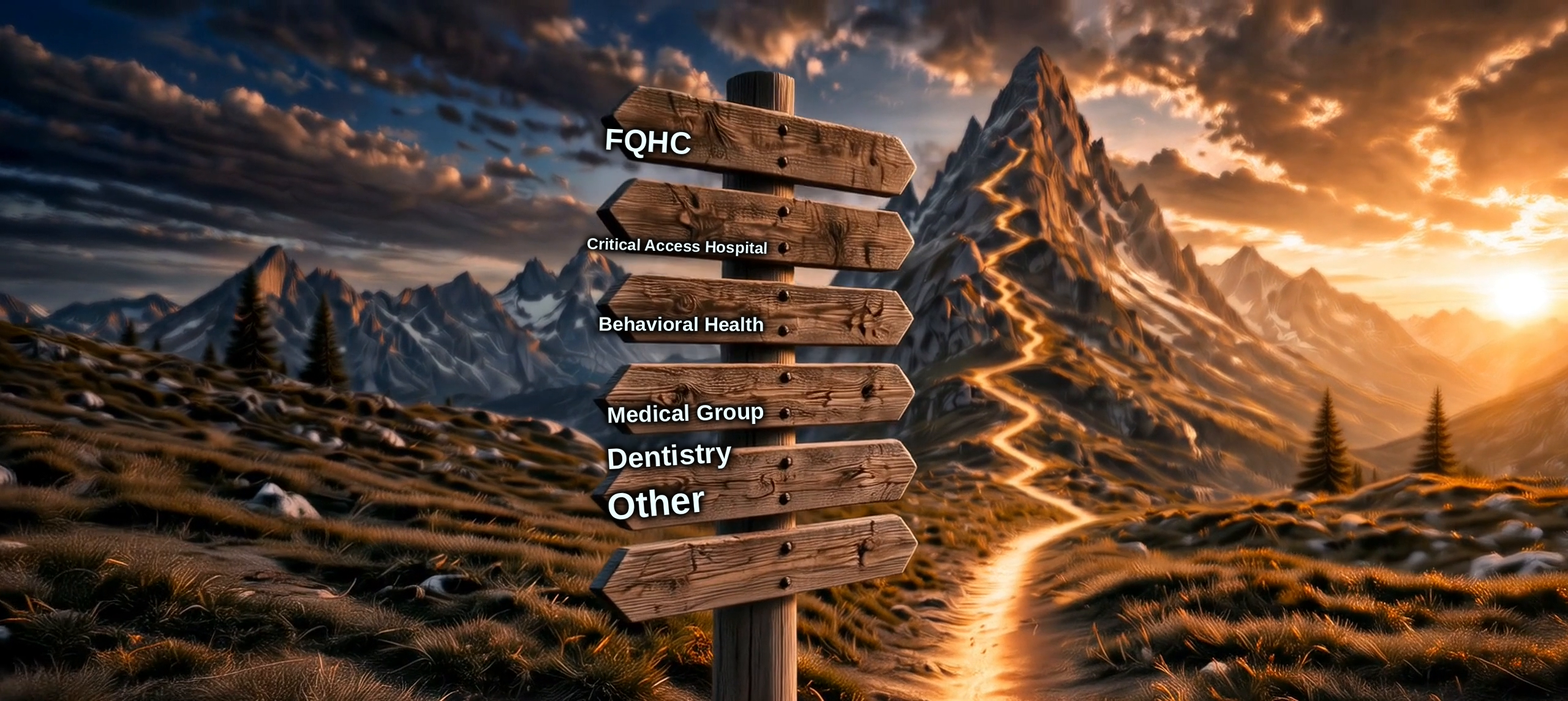
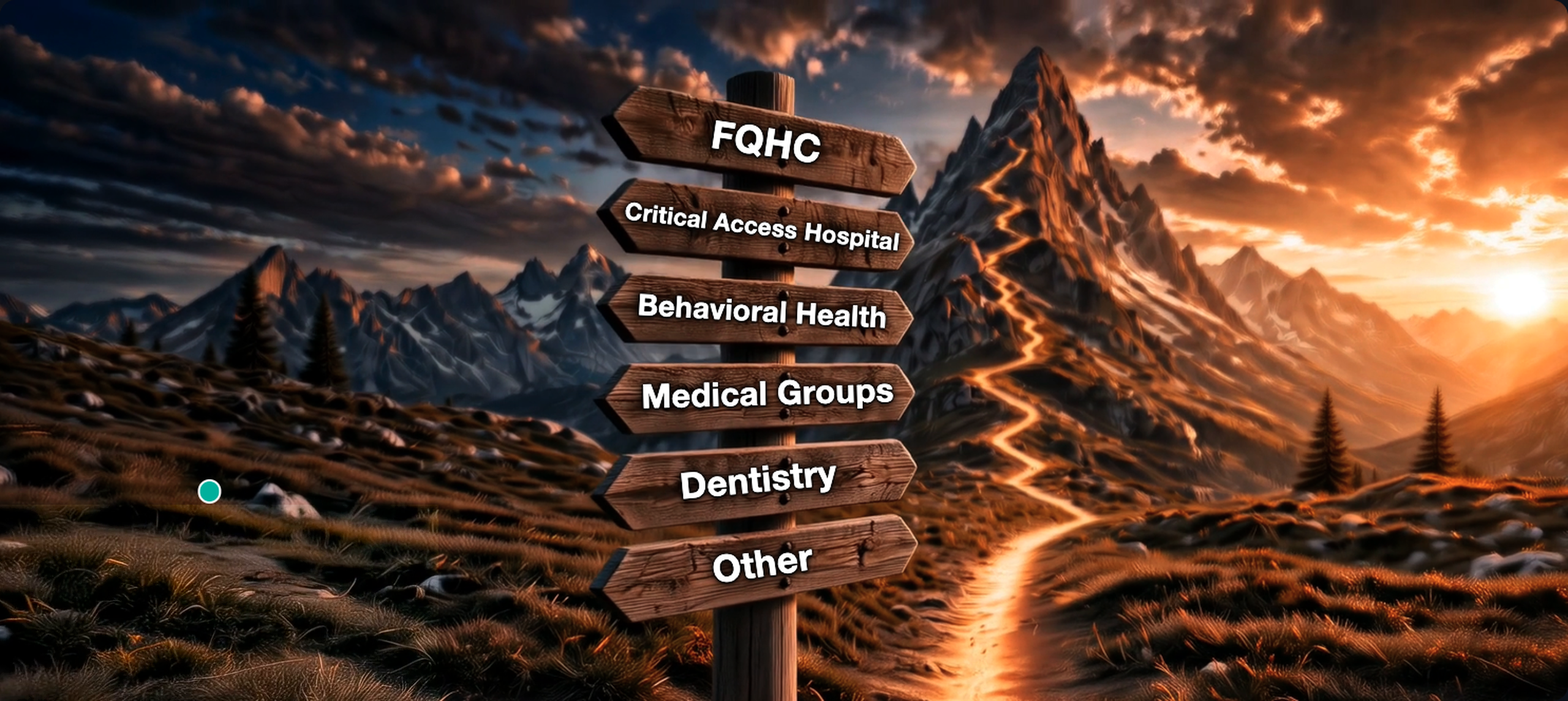
Trailhead specialty + facility: Mike-placed white type with black glow (preview 1933).

diff --git a/index.html b/index.html
@@ -6,15 +6,15 @@
 <meta name="color-scheme" content="dark light" />
 <meta name="description" content="Adaptive Medical Partners — 87% retention at 3 years, 1.7 avg interviews per placement, 700+ rural/FQHC/CAH partners, 16 years since 2010. Explore the Range with AMP." />
 <title>AMP · Explore the Range · Adaptive Medical Partners</title>
-<link rel="stylesheet" href="css/site.css?v=1932" />
-<link rel="preload" as="image" href="assets/hero-mountain-wide.png?v=1932" />
+<link rel="stylesheet" href="css/site.css?v=1933" />
+<link rel="preload" as="image" href="assets/hero-mountain-wide.png?v=1933" />
 </head>
 <body>
 <div id="approach-video-hold" class="approach-video-hold" aria-hidden="true" hidden></div>
 <nav class="site-nav is-home" id="site-nav" aria-label="Primary">
   <button type="button" class="brand brand-lockup brand-glow-white" data-go="home" aria-label="AMP Adaptive Medical Partners home">
-    <img class="brand-lockup-img is-white" src="assets/amp-lockup-nav.png?v=1932" alt="Adaptive Medical Partners" width="304" height="68" />
-    <img class="brand-lockup-img is-black" src="assets/amp-lockup-nav-black.png?v=1932" alt="" width="304" height="68" />
+    <img class="brand-lockup-img is-white" src="assets/amp-lockup-nav.png?v=1933" alt="Adaptive Medical Partners" width="304" height="68" />
+    <img class="brand-lockup-img is-black" src="assets/amp-lockup-nav-black.png?v=1933" alt="" width="304" height="68" />
   </button>
   <div class="nav-links">
     <button type="button" class="nav-link hide-sm" data-go="physician">Physicians</button>
@@ -34,8 +34,8 @@
 
 <!-- ========== HOME: zoomed-OUT wide mountain + clean copy (no auto zoom-in) ========== -->
 <section class="view on home-stage settled" data-route="home" id="home-stage">
-  <img class="home-poster" src="assets/hero-mountain-wide.png?v=1932" alt="" />
-  <video id="home-video" class="home-video" src="assets/imagine-home.mp4?v=1932" poster="assets/hero-mountain-wide.png?v=1932" playsinline muted preload="metadata"></video>
+  <img class="home-poster" src="assets/hero-mountain-wide.png?v=1933" alt="" />
+  <video id="home-video" class="home-video" src="assets/imagine-home.mp4?v=1933" poster="assets/hero-mountain-wide.png?v=1933" playsinline muted preload="metadata"></video>
   <div class="home-mist" aria-hidden="true"></div>
   <button type="button" class="home-skip" data-play-approach hidden>Watch the approach</button>
   <div class="home-overlay">
@@ -85,7 +85,7 @@
 <!-- ========== PHYSICIAN FUNNEL ========== -->
 <section class="view page funnel trailhead" data-route="physician">
   <div class="shot" aria-hidden="true">
-    <img class="still" src="assets/trailhead-specialty-baked.png?v=1932" alt="" />
+    <img class="still" src="assets/trailhead-specialty-baked.png?v=1933" alt="" />
   </div>
   <div class="trailhead-stage">
     <div class="trailhead-top">
@@ -299,7 +299,7 @@
 <!-- ========== CLIENT FUNNEL (same trail transition family) ========== -->
 <section class="view page funnel trailhead" data-route="client">
   <div class="shot" aria-hidden="true">
-    <img class="still" src="assets/trailhead-facility-baked.png?v=1932" alt="" />
+    <img class="still" src="assets/trailhead-facility-baked.png?v=1933" alt="" />
   </div>
   <div class="trailhead-stage">
     <div class="trailhead-top">
@@ -1378,9 +1378,9 @@
 }
 </script>
 
-<script src="js/content.js?v=1932"></script>
-<script src="js/articles.js?v=1932"></script>
-<script src="js/app.js?v=1932"></script>
+<script src="js/content.js?v=1933"></script>
+<script src="js/articles.js?v=1933"></script>
+<script src="js/app.js?v=1933"></script>
 <template id="amp-region-map-template">
 <div class="region-map-shell">
   <div class="region-map-intro">
@@ -1473,7 +1473,7 @@
               d="m 697.86007,177.23689 -3.23321,-8.24469 -2.26325,-9.05298 -2.4249,-3.23321 -2.58657,-1.77827 -1.6166,1.13163 -3.87986,1.77826 -1.93992,5.01148 -2.74823,3.71819 -1.13162,0.64664 -1.45495,-0.64664 c 0,0 -2.58656,-1.45495 -2.4249,-2.10159 0.16166,-0.64664 0.48498,-5.01147 0.48498,-5.01147 l 3.39487,-1.29329 0.8083,-3.39487 0.64664,-2.58656 2.42491,-1.61661 -0.32332,-10.02295 -1.61661,-2.26324 -1.29328,-0.80831 -0.8083,-2.10158 0.8083,-0.8083 1.6166,0.32332 0.16166,-1.61661 -2.4249,-2.26325 -1.29329,-2.58656 -2.58656,0 -4.5265,-1.45495 -5.49645,-3.39487 -2.74823,0 -0.64664,0.64665 -0.96997,-0.48499 -3.07154,-2.26324 -2.90989,1.77826 -2.90989,2.26325 0.32332,3.55653 0.96996,0.32332 2.10159,0.48498 0.48498,0.8083 -2.58657,0.80831 -2.58656,0.32332 -1.45495,1.77826 -0.32332,2.10159 0.32332,1.6166 0.32332,5.49646 -3.55653,2.10159 -0.64664,-0.16167 0,-4.20317 1.29328,-2.4249 0.64665,-2.42491 -0.80831,-0.8083 -1.93992,0.8083 -0.96997,4.20317 -2.74822,1.13162 -1.77827,1.93993 -0.16166,0.96996 0.64664,0.8083 -0.64664,2.58657 -2.26325,0.48498 0,1.13163 0.80831,2.4249 -1.13163,6.1431 -1.6166,4.04151 0.64664,4.68816 0.48498,1.13162 -0.8083,2.42491 -0.32332,0.8083 -0.32332,2.74823 3.55653,5.98143 2.90989,6.46642 1.45494,4.84982 -0.8083,4.68815 -0.96996,5.98144 -2.42491,5.17313 -0.32332,2.74823 -3.25887,3.08515 4.40861,-0.16205 21.41849,-2.26325 7.27784,-0.98706 0.0964,1.66635 6.85194,-1.21246 10.29808,-1.50313 3.8542,-0.46091 0.13805,-0.58755 0.16166,-1.45494 2.10158,-3.71819 2.00056,-1.73785 -0.22229,-5.05189 1.59699,-1.59699 1.09062,-0.34294 0.22228,-3.55653 1.53577,-3.03112 1.05079,0.60622 0.16166,0.64664 0.80831,0.16166 1.93992,-0.96996 -0.32332,-9.53797 z"
         />
         <path class="amp-state" data-state="MI"
-              d="m 581.61932,82.059006 1.82899,-2.057604 2.17192,-0.800181 5.37264,-3.886597 2.28622,-0.571559 0.45726,0.457254 -5.14402,5.14402 -3.31504,1.943289 -2.05761,0.914496 -1.60036,-1.143118 z m 86.17438,32.128184 0.64664,2.50574 3.23322,0.16166 1.29329,-1.21246 c 0,0 -0.0808,-1.45494 -0.40415,-1.61661 -0.32333,-0.16166 -1.61661,-1.8591 -1.61661,-1.8591 l -2.18242,0.24249 -1.61662,0.16166 -0.32332,1.13163 0.96997,0.48499 z m -100.3016,-2.97401 0.71628,-0.5804 2.74823,-0.80831 3.55653,-2.26324 0,-0.96997 0.64665,-0.64664 5.98143,-0.96996 2.42491,-1.93993 4.36483,-2.10158 0.16166,-1.293286 1.93993,-2.909889 1.77826,-0.808302 1.29329,-1.778265 2.26324,-2.263247 4.36484,-2.424907 4.68815,-0.484981 1.13162,1.131623 -0.32332,0.969963 -3.71819,0.969963 -1.45494,3.071549 -2.26325,0.808302 -0.48498,2.424907 -2.42491,3.23321 -0.32332,2.58657 0.8083,0.48498 0.96997,-1.13162 3.55653,-2.90989 1.29328,1.29328 2.26325,0 3.23321,0.96996 1.45494,1.13163 1.45494,3.07155 2.74823,2.74822 3.87985,-0.16166 1.45495,-0.96996 1.6166,1.29328 1.61661,0.48499 1.29328,-0.80831 1.13162,0 1.61661,-0.96996 4.04151,-3.55653 3.39487,-1.13162 6.62808,-0.32332 4.52649,-1.93993 2.58657,-1.29328 1.45495,0.16166 0,5.65811 0.48498,0.32332 2.90988,0.80831 1.93993,-0.48499 6.1431,-1.6166 1.13162,-1.13162 1.45495,0.48498 0,6.9514 3.23321,3.07155 1.29328,0.64664 1.29328,0.96996 -1.29328,0.32332 -0.8083,-0.32332 -3.71819,-0.48498 -2.10159,0.64664 -2.26325,-0.16166 -3.23321,1.45495 -1.77826,0 -5.81978,-1.29329 -5.17313,0.16166 -1.93993,2.58657 -6.9514,0.64664 -2.42491,0.8083 -1.13162,3.07155 -1.29328,1.13163 -0.48498,-0.16166 -1.45495,-1.61661 -4.52649,2.42491 -0.64664,0 -1.13163,-1.61661 -0.8083,0.16166 -1.93992,4.36484 -0.96997,4.04151 -3.18112,7.0008 -1.17676,-1.03427 -1.37174,-1.03132 -1.94078,-10.28802 -3.54448,-1.37005 -2.05258,-2.28623 -12.12036,-2.74348 -2.85527,-1.02964 -8.23042,-2.17274 -7.88999,-1.14312 -3.7193,-5.14569 z"
+              d="m 581.61933,82.059006 1.82899,-2.057604 2.17192,-0.800181 5.37264,-3.886597 2.28622,-0.571559 0.45726,0.457254 -5.14402,5.14402 -3.31504,1.943289 -2.05761,0.914496 -1.60036,-1.143118 z m 86.17438,32.128184 0.64664,2.50574 3.23322,0.16166 1.29329,-1.21246 c 0,0 -0.0808,-1.45494 -0.40415,-1.61661 -0.32333,-0.16166 -1.61661,-1.8591 -1.61661,-1.8591 l -2.18242,0.24249 -1.61662,0.16166 -0.32332,1.13163 0.96997,0.48499 z m -100.3016,-2.97401 0.71628,-0.5804 2.74823,-0.80831 3.55653,-2.26324 0,-0.96997 0.64665,-0.64664 5.98143,-0.96996 2.42491,-1.93993 4.36483,-2.10158 0.16166,-1.293286 1.93993,-2.909889 1.77826,-0.808302 1.29329,-1.778265 2.26324,-2.263247 4.36484,-2.424907 4.68815,-0.484981 1.13162,1.131623 -0.32332,0.969963 -3.71819,0.969963 -1.45494,3.071549 -2.26325,0.808302 -0.48498,2.424907 -2.42491,3.23321 -0.32332,2.58657 0.8083,0.48498 0.96997,-1.13162 3.55653,-2.90989 1.29328,1.29328 2.26325,0 3.23321,0.96996 1.45494,1.13163 1.45494,3.07155 2.74823,2.74822 3.87985,-0.16166 1.45495,-0.96996 1.6166,1.29328 1.61661,0.48499 1.29328,-0.80831 1.13162,0 1.61661,-0.96996 4.04151,-3.55653 3.39487,-1.13162 6.62808,-0.32332 4.52649,-1.93993 2.58657,-1.29328 1.45495,0.16166 0,5.65811 0.48498,0.32332 2.90988,0.80831 1.93993,-0.48499 6.1431,-1.6166 1.13162,-1.13162 1.45495,0.48498 0,6.9514 3.23321,3.07155 1.29328,0.64664 1.29328,0.96996 -1.29328,0.32332 -0.8083,-0.32332 -3.71819,-0.48498 -2.10159,0.64664 -2.26325,-0.16166 -3.23321,1.45495 -1.77826,0 -5.81978,-1.29329 -5.17313,0.16166 -1.93993,2.58657 -6.9514,0.64664 -2.42491,0.8083 -1.13162,3.07155 -1.29328,1.13163 -0.48498,-0.16166 -1.45495,-1.61661 -4.52649,2.42491 -0.64664,0 -1.13163,-1.61661 -0.8083,0.16166 -1.93992,4.36484 -0.96997,4.04151 -3.18112,7.0008 -1.17676,-1.03427 -1.37174,-1.03132 -1.94078,-10.28802 -3.54448,-1.37005 -2.05258,-2.28623 -12.12036,-2.74348 -2.85527,-1.02964 -8.23042,-2.17274 -7.88999,-1.14312 -3.7193,-5.14569 z"
         />
         <text class="state-abbr" text-anchor="middle" dominant-baseline="middle" x="664.72" y="174.90"><tspan>MI</tspan></text>
     
@@ -1563,7 +1563,7 @@
         <text class="state-abbr" text-anchor="middle" dominant-baseline="middle" x="764.50" y="321.25"><tspan>NC</tspan></text>
     
         <path class="amp-state" data-state="SC"
-              d="m 759.19328,401.25863 -1.77706,0.9695 -2.58657,-1.29329 -0.64664,-2.10159 -1.29328,-3.55653 -2.26326,-2.1016 -2.58657,-0.64664 -1.6166,-4.84981 -2.74824,-5.98145 -4.20317,-1.93994 -2.1016,-1.93992 -1.29328,-2.58657 -2.10159,-1.93994 -2.26325,-1.29328 -2.26325,-2.90989 -3.07155,-2.26324 -4.52651,-1.77828 -0.48498,-1.45494 -2.4249,-2.90989 -0.48499,-1.45496 -3.39488,-5.17313 -3.39487,0.16166 -4.04152,-2.42492 -1.29328,-1.29328 -0.32332,-1.77827 0.8083,-1.93992 2.26325,-0.96998 -0.51082,-2.28908 5.7681,-2.33657 9.1155,-4.589 7.77473,-0.80831 16.1144,-0.42248 2.63825,1.87743 1.6791,3.35822 4.30235,-0.60998 12.60953,-1.45496 2.90989,0.80831 12.60954,7.59806 10.10808,8.12168 -5.42117,5.45834 -2.58657,6.1431 -0.48498,6.30476 -1.6166,0.8083 -1.13163,2.74823 -2.4249,0.64664 -2.10159,3.55653 -2.74823,2.74823 -2.26324,3.39487 -1.61661,0.8083 -3.55653,3.39487 -2.90989,0.16166 0.96997,3.23321 -5.01148,5.49646 -2.10159,1.29328 z"
+              d="m 759.19338,401.25863 -1.77706,0.9695 -2.58657,-1.29329 -0.64664,-2.10159 -1.29328,-3.55653 -2.26326,-2.1016 -2.58657,-0.64664 -1.6166,-4.84981 -2.74824,-5.98145 -4.20317,-1.93994 -2.1016,-1.93992 -1.29328,-2.58657 -2.10159,-1.93994 -2.26325,-1.29328 -2.26325,-2.90989 -3.07155,-2.26324 -4.52651,-1.77828 -0.48498,-1.45494 -2.4249,-2.90989 -0.48499,-1.45496 -3.39488,-5.17313 -3.39487,0.16166 -4.04152,-2.42492 -1.29328,-1.29328 -0.32332,-1.77827 0.8083,-1.93992 2.26325,-0.96998 -0.51082,-2.28908 5.7681,-2.33657 9.1155,-4.589 7.77473,-0.80831 16.1144,-0.42248 2.63825,1.87743 1.6791,3.35822 4.30235,-0.60998 12.60953,-1.45496 2.90989,0.80831 12.60954,7.59806 10.10808,8.12168 -5.42117,5.45834 -2.58657,6.1431 -0.48498,6.30476 -1.6166,0.8083 -1.13163,2.74823 -2.4249,0.64664 -2.10159,3.55653 -2.74823,2.74823 -2.26324,3.39487 -1.61661,0.8083 -3.55653,3.39487 -2.90989,0.16166 0.96997,3.23321 -5.01148,5.49646 -2.10159,1.29328 z"
         />
         <text class="state-abbr" text-anchor="middle" dominant-baseline="middle" x="750.10" y="368.80"><tspan>SC</tspan></text>
     

diff --git a/js/app.js b/js/app.js
@@ -128,7 +128,7 @@
   }
 
   function trailheadBakeSrc(route) {
-    var v = "1932";
+    var v = "1933";
     if (route === "client") return "assets/trailhead-facility-baked.png?v=" + v;
     return "assets/trailhead-specialty-baked.png?v=" + v;
   }
